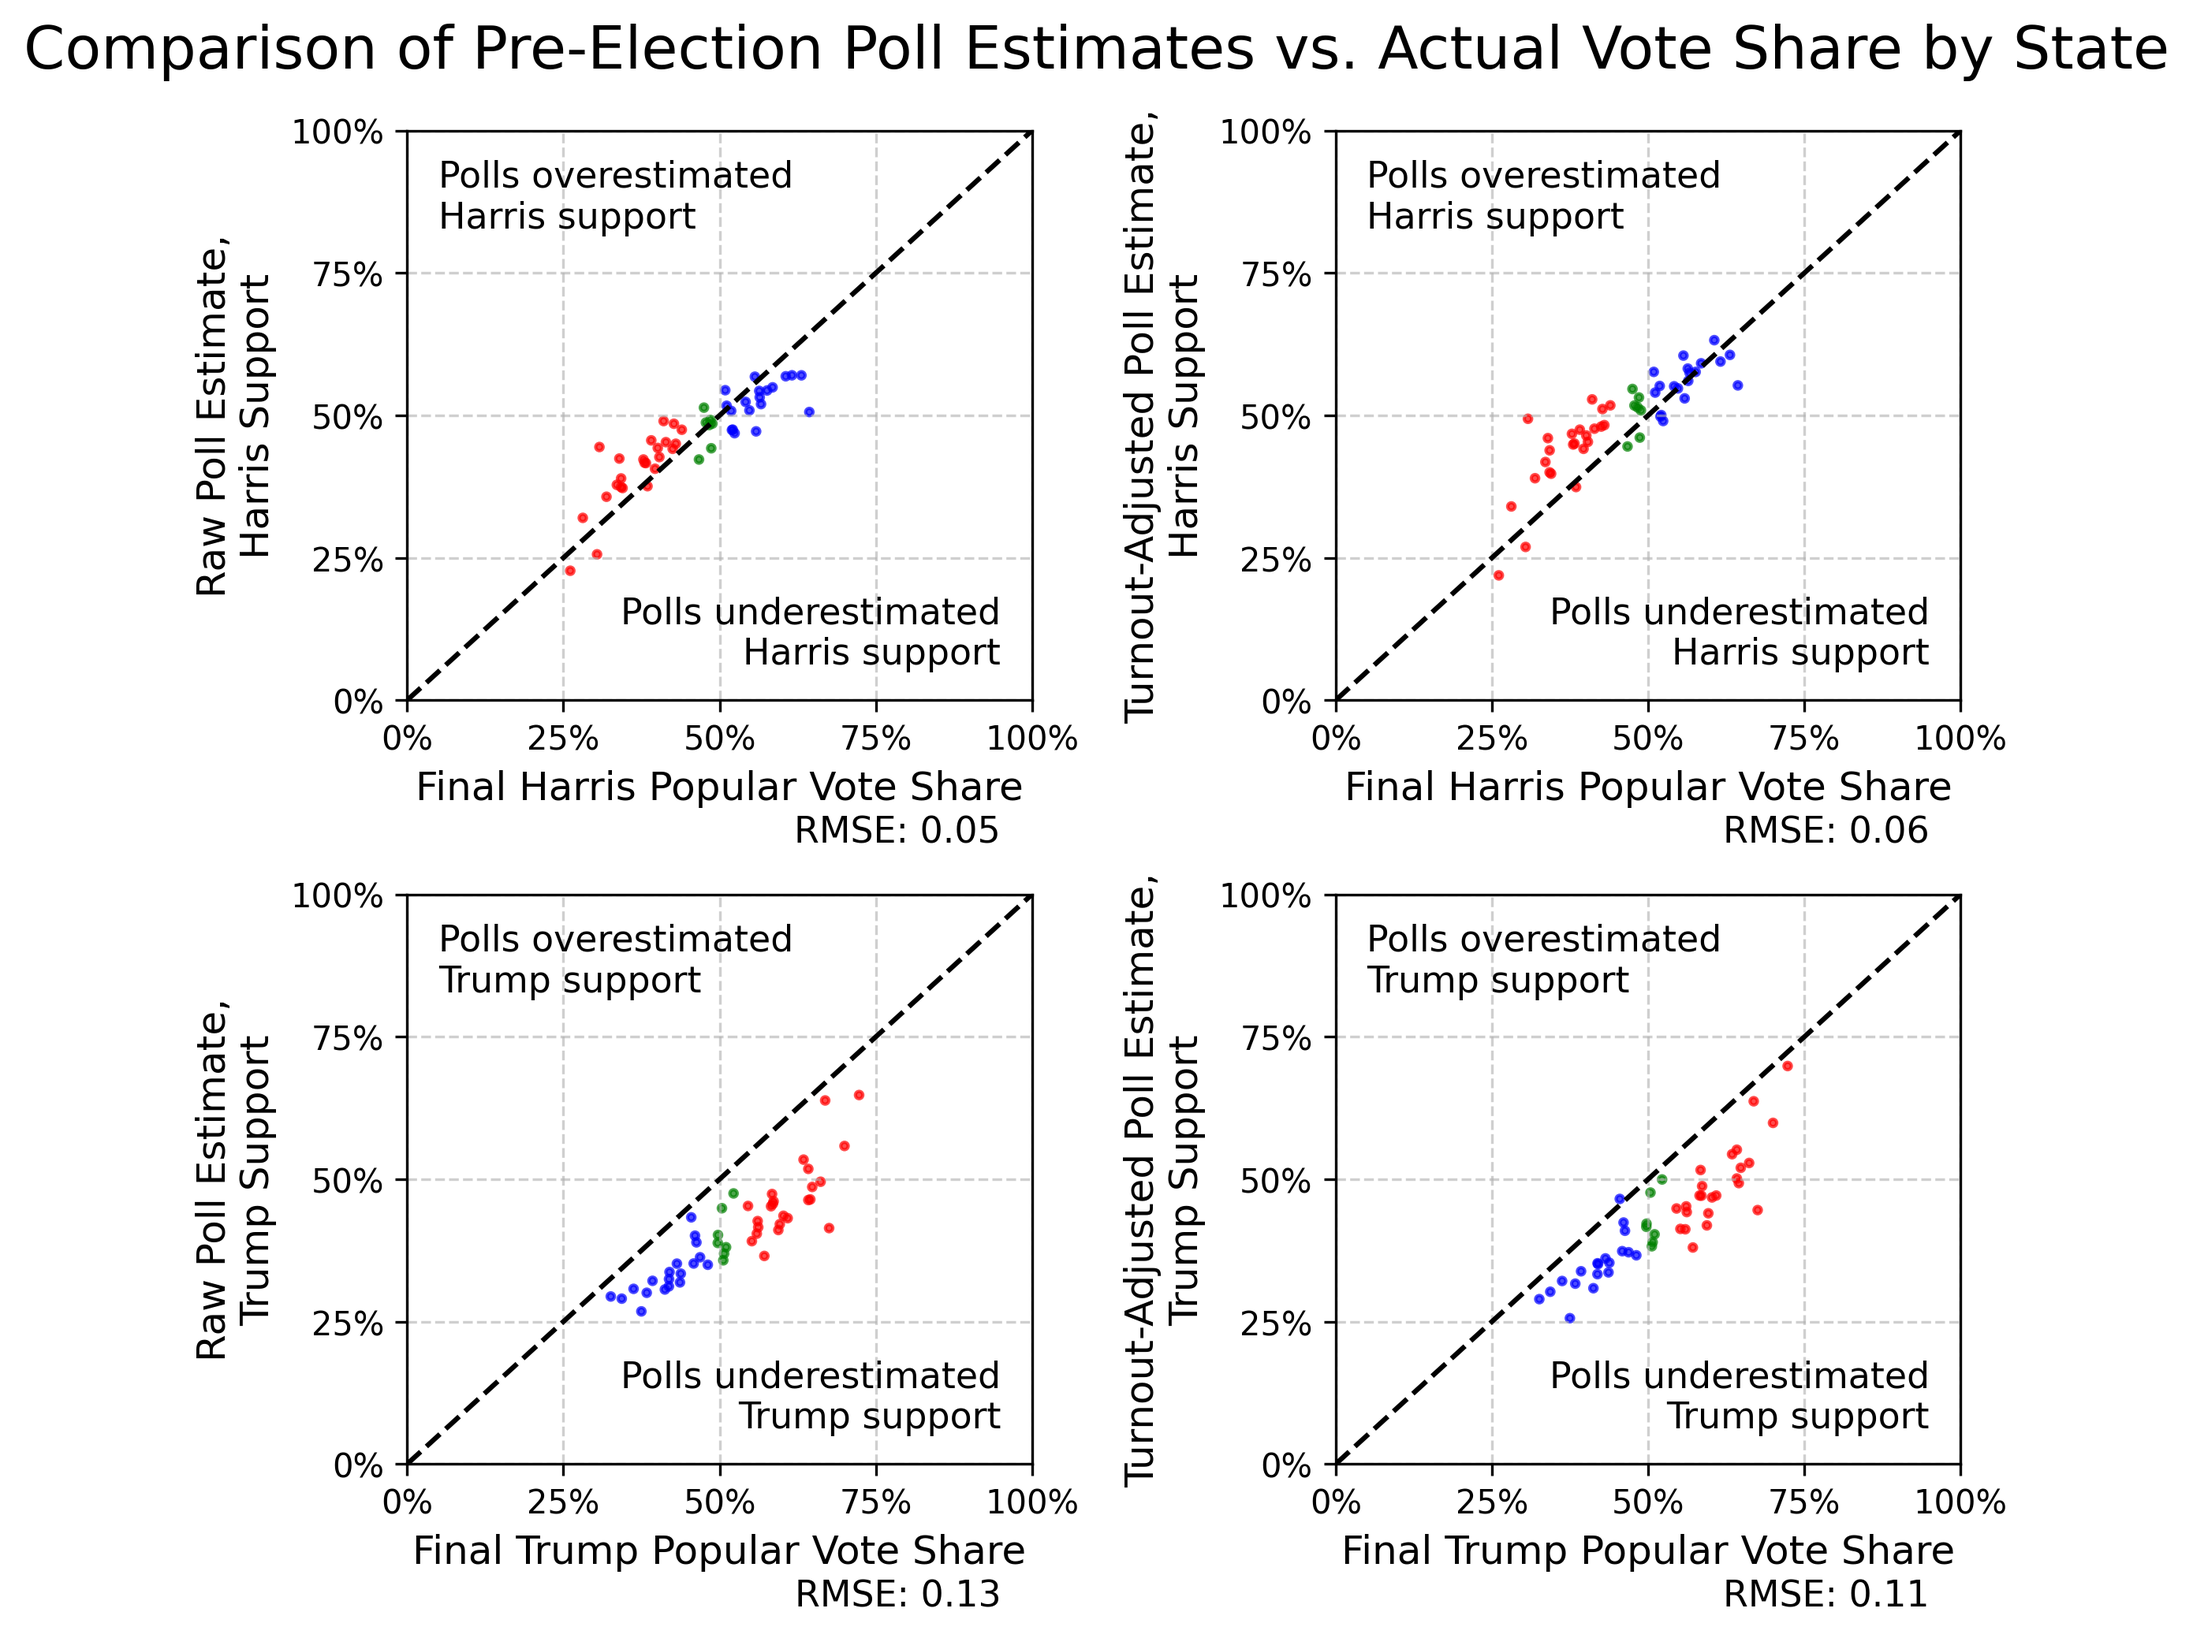
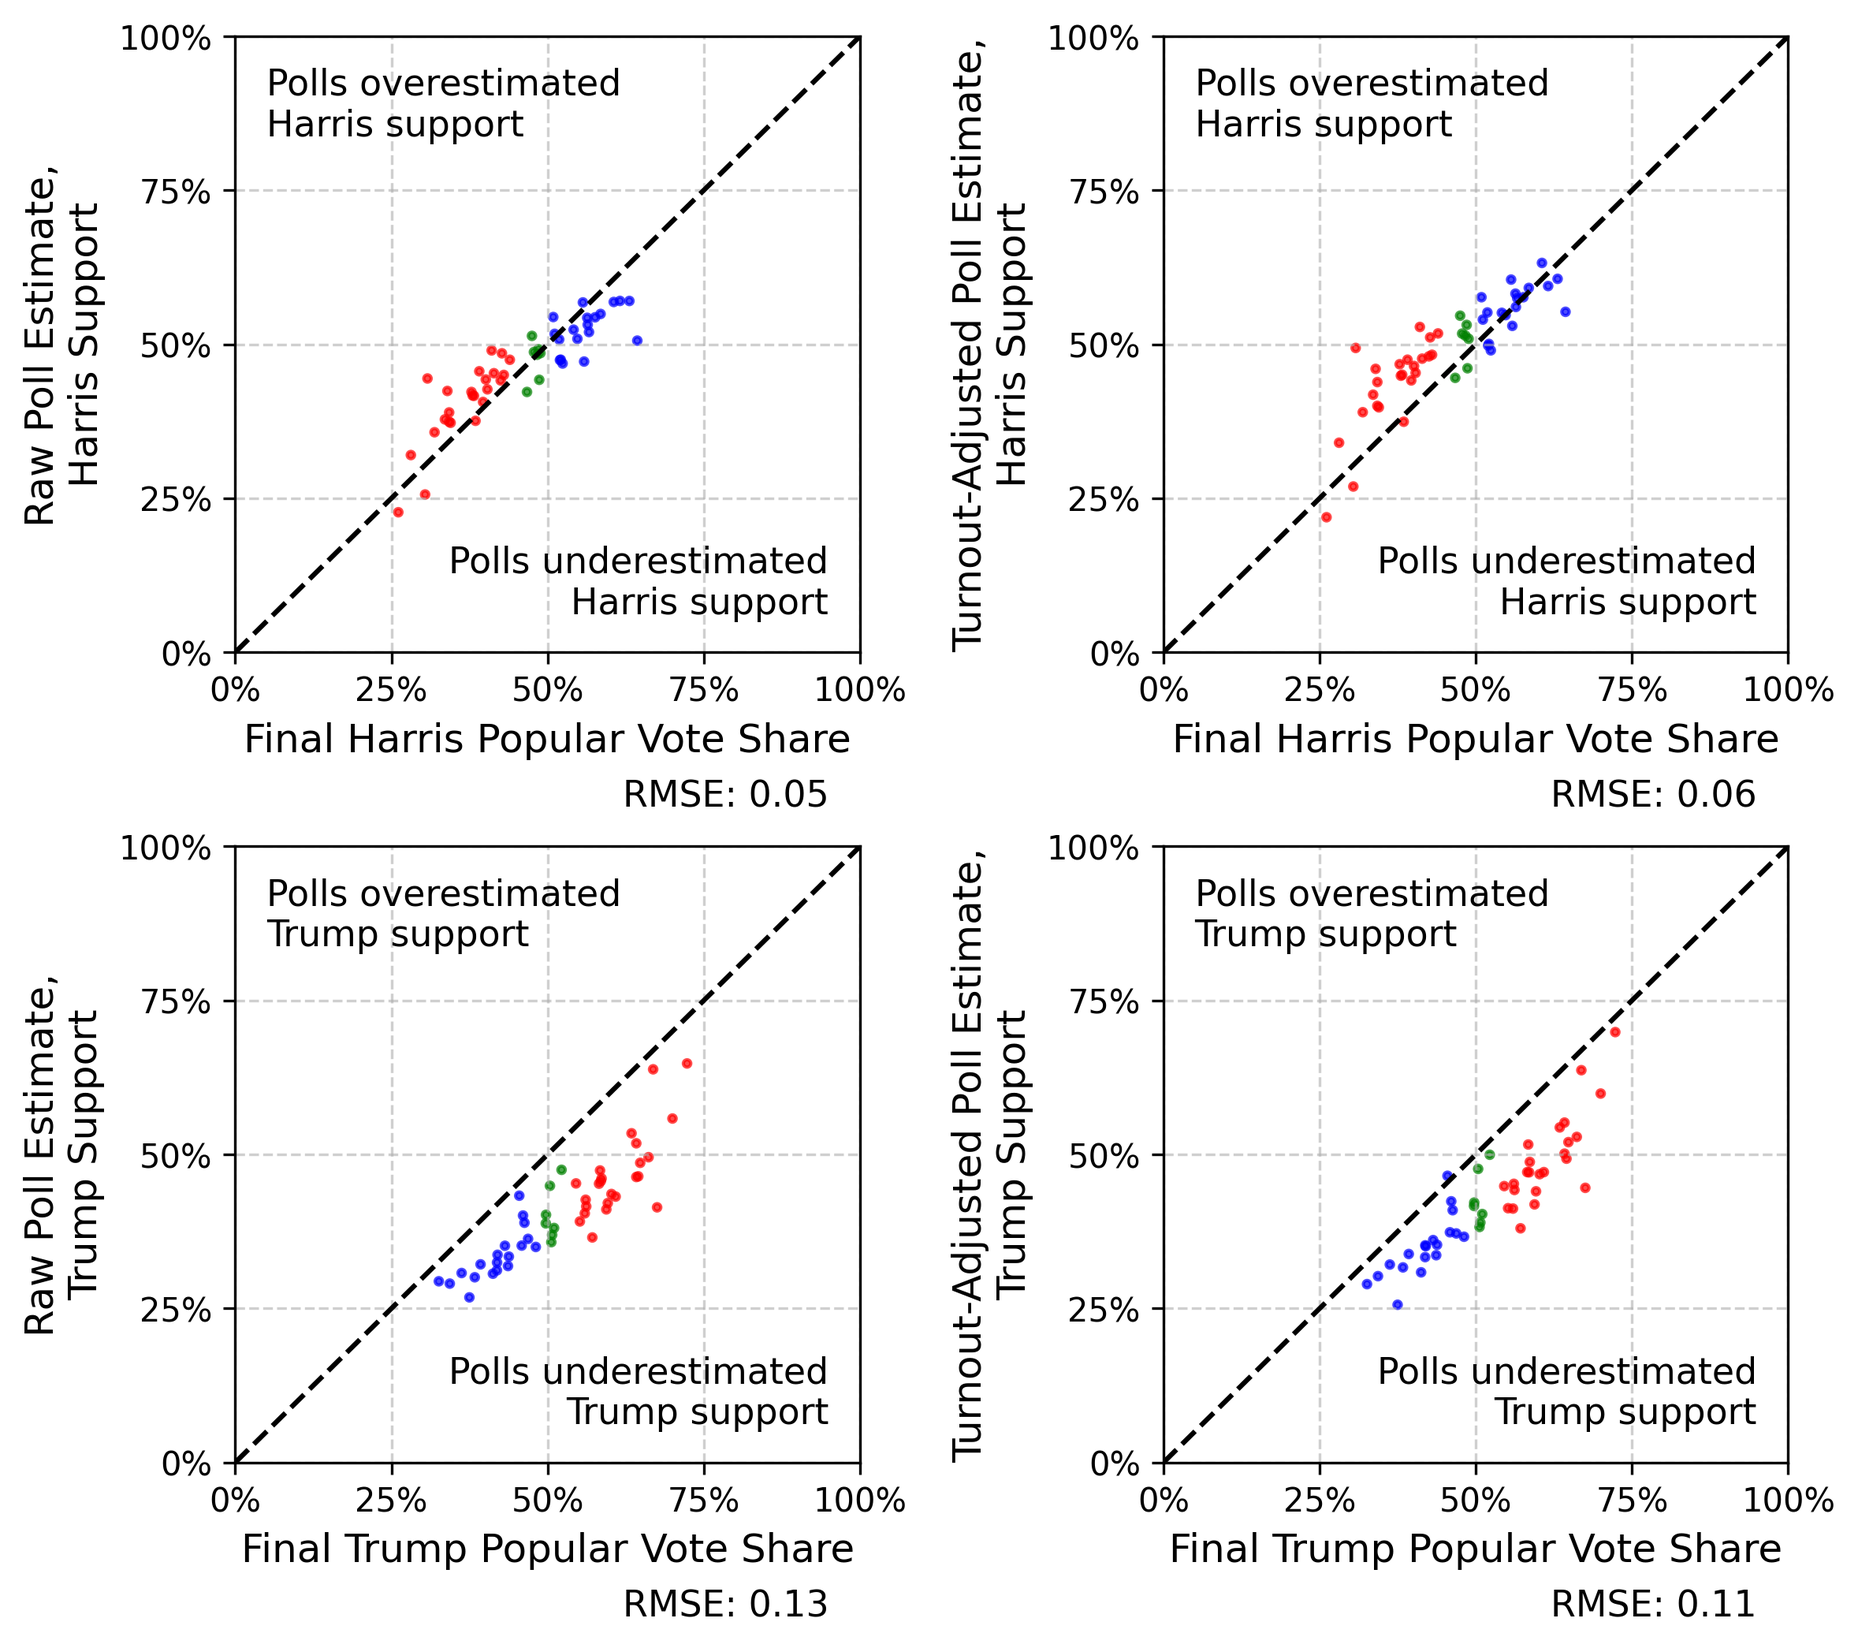
remove title fig 4

diff --git a/src/figure_4.py b/src/figure_4.py
@@ -286,10 +286,10 @@ create_scatter(
     "Trump"
 )
 
-plt.suptitle(
-    "Comparison of Pre-Election Poll Estimates vs. Actual Vote Share by State",
-    fontsize=18,
-)
+# plt.suptitle(
+#     "Comparison of Pre-Election Poll Estimates vs. Actual Vote Share by State",
+#     fontsize=18,
+# )
 plt.tight_layout()
 plt.savefig("../figures/figure_4.png", dpi=300, bbox_inches="tight")
 
